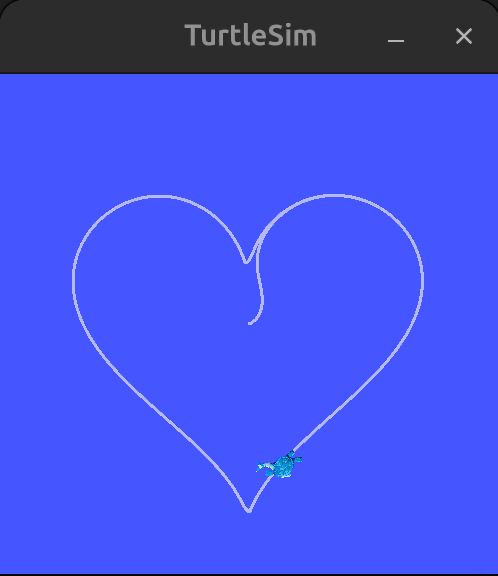
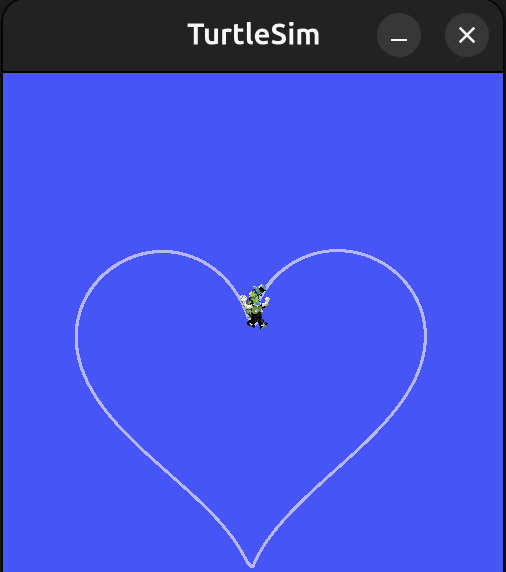
heart starting point improved

diff --git a/src/heart_pkg/heart_pkg/heart_pid_controller.py b/src/heart_pkg/heart_pkg/heart_pid_controller.py
@@ -58,9 +58,13 @@ class HeartPIDNode(Node):
         x = 16 * (math.sin(self.t) ** 3)
         y = (13 * math.cos(self.t) - 5 * math.cos(2 * self.t) - 2 * math.cos(3 * self.t) - math.cos(4 * self.t))
 
-        # Scale + shift to turtlesim window
-        x = x / 16 * 4 + 5.5
-        y = y / 16 * 4 + 5.5
+        # Scale
+        x = x / 16 * 4
+        y = y / 16 * 4
+
+        # Shift so that heart top aligns with turtle start (5.5, 5.5)
+        x += 5.5
+        y += 5.5 - (5 / 16 * 4)
 
         return x, y
 
